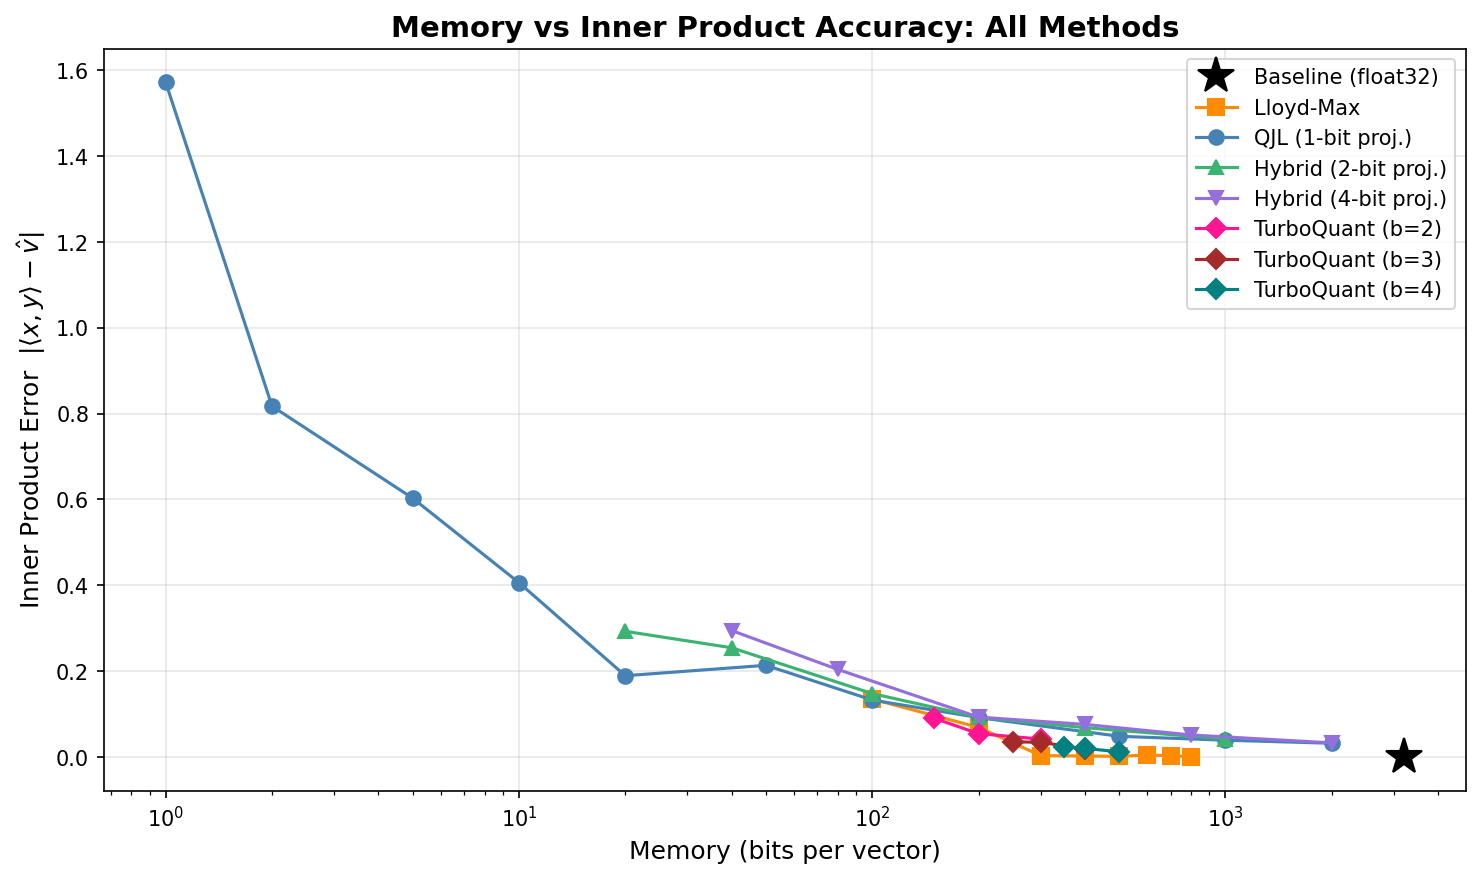
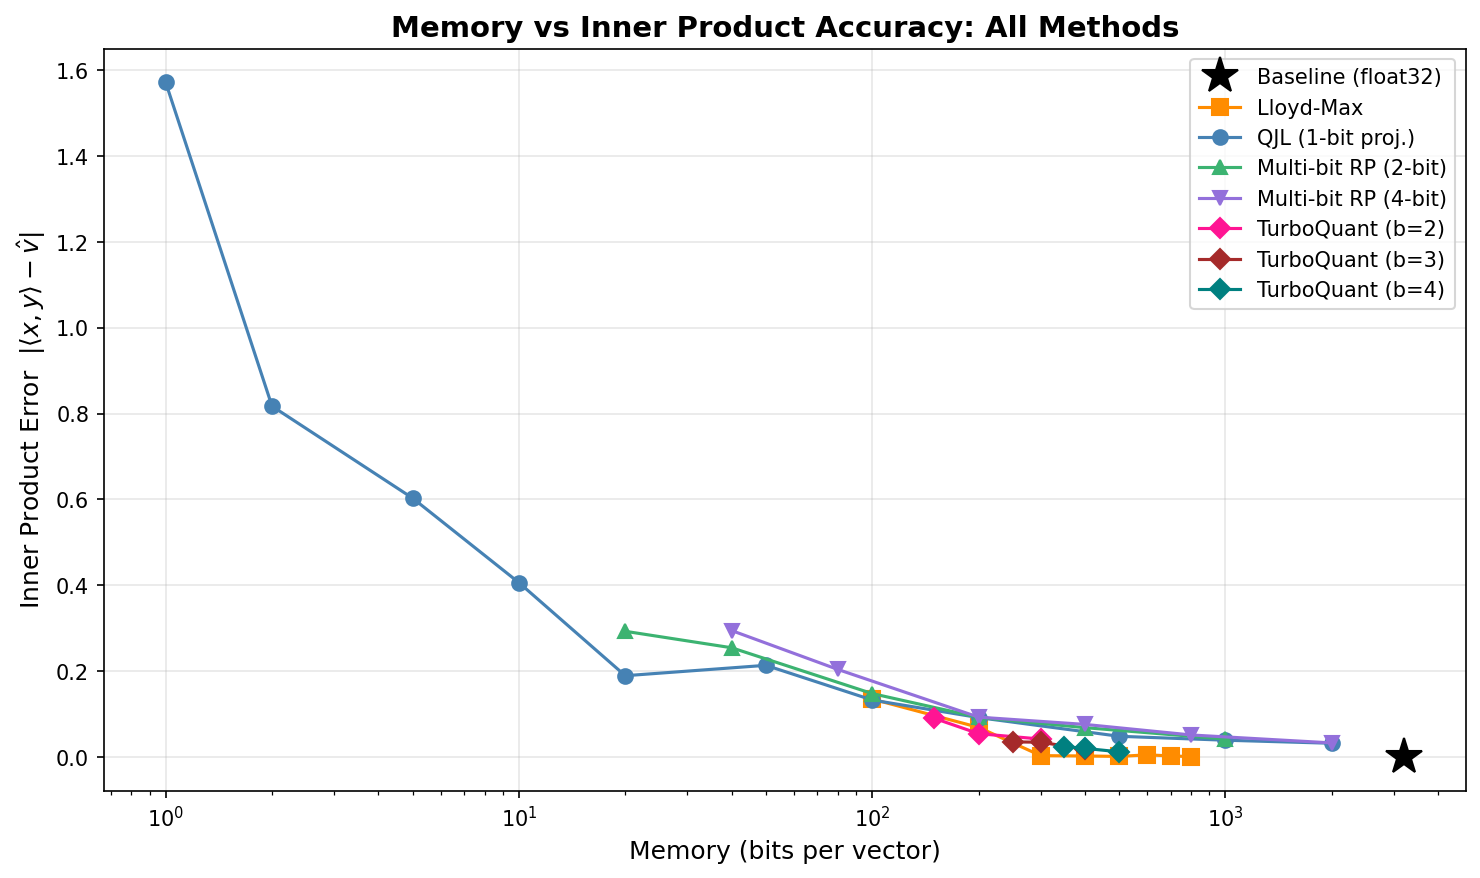
Rename Hybrid to Multi-bit RP for clarity
- Rename hybrid.py to multibit_rp.py and update all references
- Update method labels in experiments, visualization, and summary table
- Fix experiment module docstring (4 methods -> 5 methods)
- Remove "核心" wording from code comments
- Update directory name in README to match repo rename
- Remove unused comparison.png

Changed region(s): [[0.8081, 0.0615, 0.9946, 0.3383]]

diff --git a/src/experiments.py b/src/experiments.py
@@ -1,7 +1,7 @@
 """
 実験モジュール
 
-4つの手法（Baseline、Lloyd-Max、QJL、Hybrid）の実験を実行し、
+5つの手法（Baseline、Lloyd-Max、QJL、Multi-bit RP、TurboQuant）の実験を実行し、
 内積誤差・再構成誤差・メモリ使用量を計算して構造化された結果を返す。
 """
 
@@ -10,7 +10,7 @@ import numpy as np
 from .utils import compute_memory_bits
 from .qjl import qjl_convergence, qjl_convergence_unbiased
 from .lloyd_max import lloyd_max_train, quantize
-from .hybrid import hybrid_estimate
+from .multibit_rp import multibit_rp_estimate
 from .turbo_quant import turbo_quant_prod_estimate
 
 
@@ -143,9 +143,9 @@ def run_qjl_experiments(x, y, m_values=None, n_trials=30, seed=123):
     return results, conv_data
 
 
-def run_hybrid_experiments(x, y, configs=None, n_trials=30, seed=456):
+def run_multibit_rp_experiments(x, y, configs=None, n_trials=30, seed=456):
     """
-    Hybrid: 各 (m, b) 設定で内積推定の統計量を計算する。
+    Multi-bit RP: 各 (m, b) 設定で内積推定の統計量を計算する。
 
     Parameters
     ----------
@@ -173,14 +173,14 @@ def run_hybrid_experiments(x, y, configs=None, n_trials=30, seed=456):
         estimates = []
         for trial in range(n_trials):
             rng = np.random.default_rng(seed + trial * 1000 + m * 10 + b)
-            est = hybrid_estimate(x, y, m, b, rng)
+            est = multibit_rp_estimate(x, y, m, b, rng)
             estimates.append(est)
 
         estimates = np.array(estimates)
         errors = np.abs(estimates - true_ip)
 
         results.append({
-            "method": "Hybrid",
+            "method": "Multi-bit RP",
             "config": f"m={m},b={b}",
             "m": m,
             "b": b,
@@ -188,7 +188,7 @@ def run_hybrid_experiments(x, y, configs=None, n_trials=30, seed=456):
             "ip_std": float(np.std(estimates)),
             "ip_error_mean": float(np.mean(errors)),
             "reconstruction_mse": None,   # 再構成不可
-            "memory_bits": compute_memory_bits("hybrid", m=m, b=b),
+            "memory_bits": compute_memory_bits("multibit_rp", m=m, b=b),
         })
 
     return results
@@ -267,7 +267,7 @@ def run_all_experiments(x, y, d, seed=42):
         'baseline': Baseline の結果
         'lloyd_max': Lloyd-Max の結果リスト
         'qjl': QJL の結果リスト
-        'hybrid': Hybrid の結果リスト
+        'multibit_rp': Multi-bit RP の結果リスト
         'qjl_conv_data': QJL 収束データ（グラフ用）
         'm_values': QJL/グラフ用の射影数リスト
     """
@@ -284,8 +284,8 @@ def run_all_experiments(x, y, d, seed=42):
         x, y, m_values=m_values, n_trials=30, seed=seed + 1
     )
 
-    print("  Running Hybrid experiments...")
-    hybrid = run_hybrid_experiments(x, y, seed=seed + 2)
+    print("  Running Multi-bit RP experiments...")
+    multibit_rp = run_multibit_rp_experiments(x, y, seed=seed + 2)
 
     print("  Running TurboQuant experiments...")
     turbo_quant = run_turbo_quant_experiments(x, y, d, seed=seed + 3)
@@ -302,7 +302,7 @@ def run_all_experiments(x, y, d, seed=42):
         "baseline": baseline,
         "lloyd_max": lloyd_max,
         "qjl": qjl,
-        "hybrid": hybrid,
+        "multibit_rp": multibit_rp,
         "turbo_quant": turbo_quant,
         "qjl_conv_data": qjl_conv_data,
         "qjl_conv_unbiased": qjl_conv_unbiased,
@@ -341,10 +341,10 @@ def print_summary_table(results):
         if r["m"] in [100, 500, 1000, 2000]:
             print(f"{'QJL':<12} {r['config']:<14} {r['memory_bits']:>8} b  {r['ip_error_mean']:>11.6f}  {'N/A':>11}")
 
-    # Hybrid（代表的なもの）
-    for r in results["hybrid"]:
+    # Multi-bit RP（代表的なもの）
+    for r in results["multibit_rp"]:
         if (r["m"], r["b"]) in [(50, 2), (100, 2), (50, 4), (100, 4), (200, 4)]:
-            print(f"{'Hybrid':<12} {r['config']:<14} {r['memory_bits']:>8} b  {r['ip_error_mean']:>11.6f}  {'N/A':>11}")
+            print(f"{'Multi-bitRP':<12} {r['config']:<14} {r['memory_bits']:>8} b  {r['ip_error_mean']:>11.6f}  {'N/A':>11}")
 
     # TurboQuant
     for r in results.get("turbo_quant", []):

diff --git a/src/visualization.py b/src/visualization.py
@@ -353,7 +353,6 @@ def plot_comparison_memory_vs_error(results,
     """
     メモリ使用量 vs 内積誤差の比較グラフを全手法で作成する。
 
-    これがプロジェクトの核心となるグラフ。
     同じメモリ予算でどの手法が最も内積を正確に推定できるかが一目で分かる。
 
     x軸: メモリ使用量（ビット/ベクトル、対数スケール）
@@ -378,20 +377,20 @@ def plot_comparison_memory_vs_error(results,
     ax.plot(qjl_mem, qjl_err, "o-", color="steelblue", markersize=7,
             linewidth=1.5, label="QJL (1-bit proj.)", zorder=4)
 
-    # --- Hybrid（ビット数ごとに分けてプロット）---
-    hybrid_b_values = sorted(set(r["b"] for r in results["hybrid"]))
-    hybrid_colors = {2: "mediumseagreen", 4: "mediumpurple"}
-    hybrid_markers = {2: "^", 4: "v"}
+    # --- Multi-bit RP（ビット数ごとに分けてプロット）---
+    mrp_b_values = sorted(set(r["b"] for r in results["multibit_rp"]))
+    mrp_colors = {2: "mediumseagreen", 4: "mediumpurple"}
+    mrp_markers = {2: "^", 4: "v"}
 
-    for b_val in hybrid_b_values:
-        h_filtered = [r for r in results["hybrid"] if r["b"] == b_val]
+    for b_val in mrp_b_values:
+        h_filtered = [r for r in results["multibit_rp"] if r["b"] == b_val]
         h_filtered.sort(key=lambda r: r["memory_bits"])
         h_mem = [r["memory_bits"] for r in h_filtered]
         h_err = [r["ip_error_mean"] for r in h_filtered]
-        color = hybrid_colors.get(b_val, "gray")
-        marker = hybrid_markers.get(b_val, "D")
+        color = mrp_colors.get(b_val, "gray")
+        marker = mrp_markers.get(b_val, "D")
         ax.plot(h_mem, h_err, f"{marker}-", color=color, markersize=7,
-                linewidth=1.5, label=f"Hybrid ({b_val}-bit proj.)", zorder=4)
+                linewidth=1.5, label=f"Multi-bit RP ({b_val}-bit)", zorder=4)
 
     # --- TurboQuant ---
     tq_data = results.get("turbo_quant", [])
@@ -453,11 +452,11 @@ def plot_summary_table(results, save_path="outputs/figures/summary_table.png"):
                 f"{r['ip_error_mean']:.6f}", "N/A",
             ])
 
-    # Hybrid（代表的な設定）
-    for r in results["hybrid"]:
+    # Multi-bit RP（代表的な設定）
+    for r in results["multibit_rp"]:
         if (r["m"], r["b"]) in [(50, 2), (100, 2), (50, 4), (100, 4), (200, 4)]:
             rows.append([
-                "Hybrid", r["config"], f"{r['memory_bits']}",
+                "Multi-bit RP", r["config"], f"{r['memory_bits']}",
                 f"{r['ip_error_mean']:.6f}", "N/A",
             ])
 
@@ -514,7 +513,7 @@ def plot_summary_table(results, save_path="outputs/figures/summary_table.png"):
         "Baseline": "#F2F2F2",
         "Lloyd-Max": "#FFF2CC",
         "QJL": "#D6E4F0",
-        "Hybrid": "#E2EFDA",
+        "Multi-bit RP": "#E2EFDA",
         "TurboQuant": "#FCE4EC",
     }
     for i, row in enumerate(rows):

diff --git a/src/utils.py b/src/utils.py
@@ -109,13 +109,13 @@ def compute_memory_bits(method, d=None, m=None, b=None):
     Parameters
     ----------
     method : str
-        'baseline', 'lloyd_max', 'qjl', 'hybrid'
+        'baseline', 'lloyd_max', 'qjl', 'multibit_rp'
     d : int or None
         ベクトルの次元数（baseline, lloyd_max で必要）
     m : int or None
-        射影数（qjl, hybrid で必要）
+        射影数（qjl, multibit_rp で必要）
     b : int or None
-        ビット数（lloyd_max, hybrid で必要）
+        ビット数（lloyd_max, multibit_rp で必要）
 
     Returns
     -------
@@ -126,7 +126,7 @@ def compute_memory_bits(method, d=None, m=None, b=None):
       - Baseline (float32): 32 × d ビット
       - Lloyd-Max b-bit:     b × d ビット
       - QJL m 射影:          m × 1 ビット（各射影は符号1ビット）
-      - Hybrid m 射影 b-bit: m × b ビット
+      - Multi-bit RP m 射影 b-bit: m × b ビット
     """
     if method == "baseline":
         return 32 * d
@@ -134,7 +134,7 @@ def compute_memory_bits(method, d=None, m=None, b=None):
         return b * d
     elif method == "qjl":
         return m
-    elif method == "hybrid":
+    elif method == "multibit_rp":
         return m * b
     else:
         raise ValueError(f"Unknown method: {method}")

diff --git a/main.py b/main.py
@@ -8,7 +8,7 @@ QJL vs MSE最小化量子化 — 5手法比較プロジェクト
   1. Baseline    — float32 のまま内積を計算（基準）
   2. Lloyd-Max   — MSE最小化スカラー量子化 → 再構成は良いが内積にバイアス
   3. QJL         — ランダム射影 + 1ビット量子化 → 内積を不偏推定
-  4. Hybrid      — ランダム射影 + 低ビット量子化 → メモリと精度のバランス
+  4. Multi-bit RP — ランダム射影 + 低ビット量子化 → メモリと精度のバランス
   5. TurboQuant  — MSE量子化 + 残差QJL → 再構成と内積の両立
 
 実行すると以下を生成する:
@@ -53,7 +53,7 @@ def main():
 
     print("=" * 60)
     print("  5-Method Quantization Comparison")
-    print("  Baseline / Lloyd-Max / QJL / Hybrid / TurboQuant")
+    print("  Baseline / Lloyd-Max / QJL / Multi-bit RP / TurboQuant")
     print("=" * 60)
     print(f"  Dimension       d = {d}")
     print(f"  True inner product = {true_ip:.6f}")

diff --git a/src/multibit_rp.py b/src/multibit_rp.py
@@ -1,5 +1,5 @@
 """
-ハイブリッド手法：ランダム射影 + 低ビット量子化
+Multi-bit Random Projection（多ビットランダム射影）
 
 QJL（1ビット）と通常のランダム射影（float32）の間を補間する手法。
 射影後の値を b ビットに量子化することで、メモリ使用量と内積精度の
@@ -49,9 +49,9 @@ def uniform_quantize(values, b, val_range=(-3.0, 3.0)):
     return quantized
 
 
-def hybrid_estimate(x, y, m, b, rng, val_range=(-3.0, 3.0)):
+def multibit_rp_estimate(x, y, m, b, rng, val_range=(-3.0, 3.0)):
     """
-    ハイブリッド手法による内積推定。
+    Multi-bit Random Projection による内積推定。
 
     手順:
       1. ランダム射影行列 S ~ N(0,1) を生成（shape: m × d）

diff --git a/src/turbo_quant.py b/src/turbo_quant.py
@@ -113,7 +113,7 @@ def turbo_quant_mse(x, b, rotation_seed=0, lloyd_seed=42):
 
 
 # ============================================================
-# TurboQuant Prod: 2段階アプローチ（核心）
+# TurboQuant Prod: 2段階アプローチ
 # ============================================================
 
 def turbo_quant_prod_estimate(x, y_vec, b, m_qjl,
